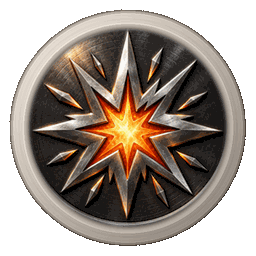
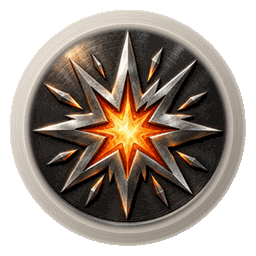
fix(achievements): drop the dark coin edge and the Claude skull
- keep the outer chamfer bright so the tier ring meets the rim with no black line
- make the ban-wave badge the official Claude starburst alone
- rebuild all 14 faces and bump the art URLs to v10

diff --git a/dashboard/src/ui/achievements/badge-catalog.js b/dashboard/src/ui/achievements/badge-catalog.js
@@ -59,15 +59,15 @@ export const BADGE_CATALOG = [
   // the flag lives in the SQL catalog and user_badges_full payloads.
   // heart_model reuses the unused heart-on-your-sleeve face (a favorite
   // worn openly — the name semantics carry over).
-  { id: "phoenix", scope: "cloud", icon: FlameKindling, format: "days", art: "/achievements/phoenix.png?v=9" },
-  { id: "iron_month", scope: "cloud", icon: CalendarCheck2, format: "days", art: "/achievements/iron-month.png?v=9" },
-  { id: "full_blast", scope: "cloud", icon: Activity, format: "tokens", art: "/achievements/full-blast.png?v=9" },
-  { id: "deep_diver", scope: "cloud", icon: Anchor, format: "count", art: "/achievements/deep-diver.png?v=9" },
-  { id: "multitool_day", scope: "cloud", icon: Layers, format: "count", art: "/achievements/multitool-day.png?v=9" },
+  { id: "phoenix", scope: "cloud", icon: FlameKindling, format: "days", art: "/achievements/phoenix.png?v=10" },
+  { id: "iron_month", scope: "cloud", icon: CalendarCheck2, format: "days", art: "/achievements/iron-month.png?v=10" },
+  { id: "full_blast", scope: "cloud", icon: Activity, format: "tokens", art: "/achievements/full-blast.png?v=10" },
+  { id: "deep_diver", scope: "cloud", icon: Anchor, format: "count", art: "/achievements/deep-diver.png?v=10" },
+  { id: "multitool_day", scope: "cloud", icon: Layers, format: "count", art: "/achievements/multitool-day.png?v=10" },
   { id: "heart_model", scope: "cloud", icon: HeartPulse, format: "percent", art: "/achievements/heart-model.png?v=7" },
-  { id: "claude_survivor", scope: "cloud", hidden: true, icon: Skull, format: "tokens", art: "/achievements/claude-survivor.png?v=9" },
-  { id: "wishing_well", scope: "cloud", hidden: true, icon: Coins, format: "tokens", art: "/achievements/wishing-well.png?v=9" },
-  { id: "grand_slam", scope: "cloud", icon: Trophy, format: "count", art: "/achievements/grand-slam.png?v=9" },
+  { id: "claude_survivor", scope: "cloud", hidden: true, icon: Skull, format: "tokens", art: "/achievements/claude-survivor.png?v=10" },
+  { id: "wishing_well", scope: "cloud", hidden: true, icon: Coins, format: "tokens", art: "/achievements/wishing-well.png?v=10" },
+  { id: "grand_slam", scope: "cloud", icon: Trophy, format: "count", art: "/achievements/grand-slam.png?v=10" },
   { id: "project_hopper", scope: "local", icon: FolderGit2, format: "count", art: "/achievements/project-hopper.png?v=7" },
   { id: "project_devotion", scope: "local", icon: Heart, format: "tokens", art: "/achievements/project-devotion.png?v=7" },
   { id: "night_owl", scope: "local", icon: MoonStar, format: "count", art: "/achievements/night-owl.png?v=7" },
@@ -75,13 +75,13 @@ export const BADGE_CATALOG = [
   // set (provenance: dashboard/public/achievements/README.md), except
   // deep_thinker which reuses the unused galaxy-brain face (brain →
   // reasoning; the name semantics carry over).
-  { id: "early_bird", scope: "local", icon: Sunrise, format: "count", art: "/achievements/early-bird.png?v=9" },
-  { id: "around_the_clock", scope: "local", icon: Clock, format: "count", art: "/achievements/around-the-clock.png?v=9" },
-  { id: "sprinter", scope: "local", icon: Gauge, format: "tokens", art: "/achievements/sprinter.png?v=9" },
-  { id: "cache_alchemist", scope: "local", icon: FlaskConical, format: "tokens", art: "/achievements/cache-alchemist.png?v=9" },
+  { id: "early_bird", scope: "local", icon: Sunrise, format: "count", art: "/achievements/early-bird.png?v=10" },
+  { id: "around_the_clock", scope: "local", icon: Clock, format: "count", art: "/achievements/around-the-clock.png?v=10" },
+  { id: "sprinter", scope: "local", icon: Gauge, format: "tokens", art: "/achievements/sprinter.png?v=10" },
+  { id: "cache_alchemist", scope: "local", icon: FlaskConical, format: "tokens", art: "/achievements/cache-alchemist.png?v=10" },
   { id: "deep_thinker", scope: "local", icon: BrainCircuit, format: "tokens", art: "/achievements/deep-thinker.png?v=7" },
-  { id: "real_money", scope: "local", icon: Banknote, format: "usd", art: "/achievements/real-money.png?v=9" },
-  { id: "session_marathon", scope: "local", icon: Hourglass, format: "duration", art: "/achievements/session-marathon.png?v=9" },
+  { id: "real_money", scope: "local", icon: Banknote, format: "usd", art: "/achievements/real-money.png?v=10" },
+  { id: "session_marathon", scope: "local", icon: Hourglass, format: "duration", art: "/achievements/session-marathon.png?v=10" },
 ];
 
 export const BADGE_BY_ID = new Map(BADGE_CATALOG.map((b) => [b.id, b]));

diff --git a/scripts/art/rebuild-badge-rims.py b/scripts/art/rebuild-badge-rims.py
@@ -53,13 +53,15 @@ def house_coin():
     lip = (r >= 208) & (r < 211)
     v[lip] = np.clip(206 + 28 * key[lip], 168, 252)
 
-    # rolled edge 230..234, then a narrow darker rim to close the coin
+    # bright polished edge: the original medallions end on their brightest
+    # chamfer, so the tier ring meets the rim directly. A dark outer band
+    # here is the black line users see between the two frames.
     edge_band = (r >= 230) & (r < 234)
-    v[edge_band] = np.clip(150 + 34 * key[edge_band] + br[edge_band] * 0.6, 96, 210)
+    v[edge_band] = np.clip(196 + 22 * key[edge_band] + br[edge_band] * 0.6, 160, 230)
     edge = (r >= 234) & (r < 237)
-    v[edge] = np.clip(92 + 36 * key[edge], 48, 170)
+    v[edge] = np.clip(212 + 18 * key[edge], 185, 240)
     outer = r >= 237
-    v[outer] = 40
+    v[outer] = 220
 
     rgb = np.zeros((S, S, 3), dtype=np.uint8)
     warm = r >= 198  # face stays neutral gunmetal, frame is champagne
@@ -282,9 +284,9 @@ def multitool_day():
 
 
 def claude_survivor():
-    """The official Claude starburst, with a steel survivor skull over it."""
+    """Only the official Claude starburst — the brand mark is the badge."""
     layer = Image.new("RGBA", (S, S), (0, 0, 0, 0))
-    star = fit(key_white(f"{BRAND}/claude-code.png"), 388, 388)
+    star = fit(key_white(f"{BRAND}/claude-code.png"), 380, 380)
     star_mask = star.getchannel("A")
     star = enamel(
         star_mask,
@@ -294,9 +296,7 @@ def claude_survivor():
         glow=(255, 184, 152),
     )
     star.alpha_composite(bevel_overlay(star_mask, 0.55))
-    paste_center(layer, star, 256, 252)
-    skull = fit(key_black(str(SRC_EMBLEM / "skull-crossbones.png")), 312, 282)
-    paste_center(layer, skull, 256, 276)
+    paste_center(layer, star, 256, 256)
     save(compose(layer), "claude-survivor.png")
 
 

diff --git a/dashboard/public/achievements/README.md b/dashboard/public/achievements/README.md
@@ -72,13 +72,15 @@ frame at display size. The second pass keeps only the painted face and casts
 the rim programmatically:
 
 - `scripts/art/source-badges/` — the painted 256px faces.
-- `scripts/art/source-emblem/` — the one-man-band and skull emblems.
+- `scripts/art/source-emblem/` — the one-man-band emblem.
 - `scripts/art/brand-cache/deepseek.png` / `claude-code.png` — the official
   DeepSeek whale and Claude starburst used for `wishing_well` and
   `claude_survivor`. The whale's white belly is filled as light enamel
-  rather than left as a hole onto the coin face.
+  rather than left as a hole onto the coin face; the Claude badge is the
+  starburst alone, with no skull.
 - Rebuild with `python scripts/art/rebuild-badge-rims.py`. The house rim
-  rolls from the face into a warm champagne frame with no dark groove, and
+  rolls from the face into a warm champagne frame with no dark groove; the
+  outer chamfer stays bright so the tier ring meets it without a dark line, and
   the saved PNG has binary alpha (opaque coin, fully transparent outside),
   so a scaled edge cannot show a checkerboard or a dot fringe.
 - The older self-drawn generator `scripts/art/gen-achievement-medallions.py`
